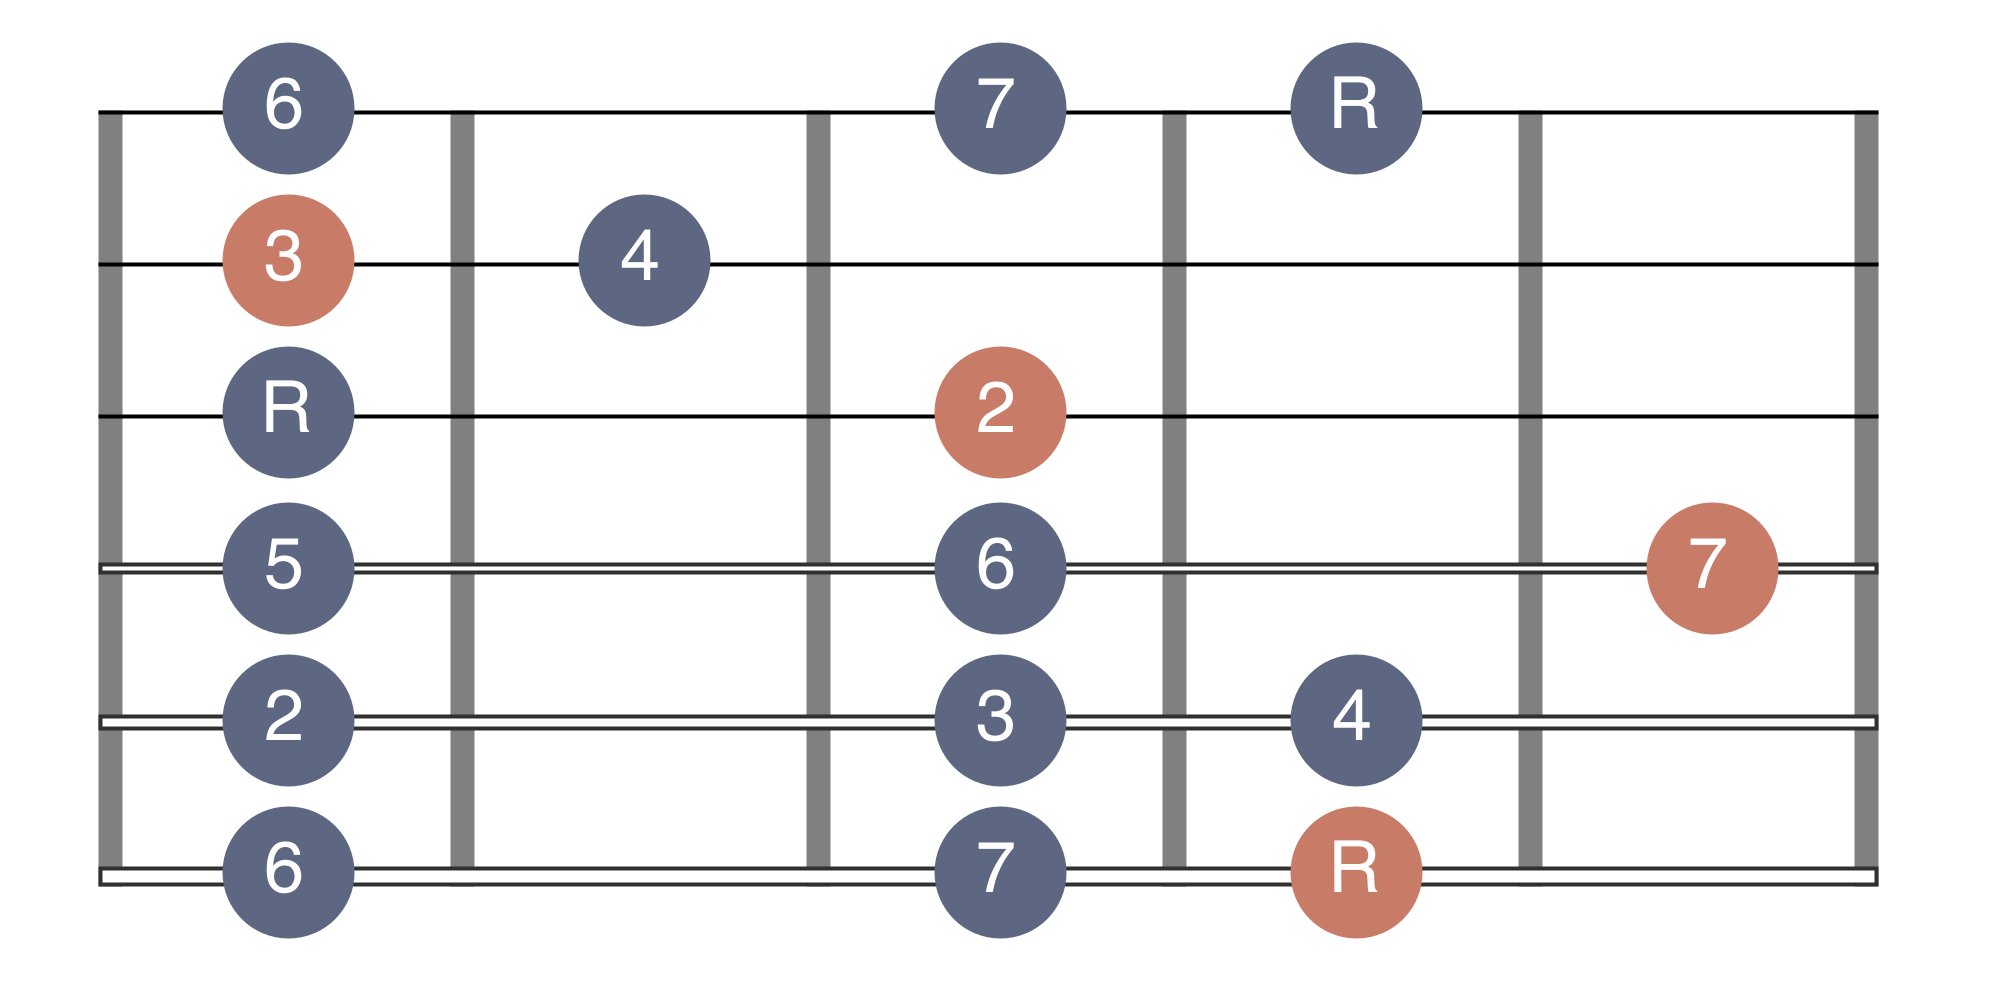
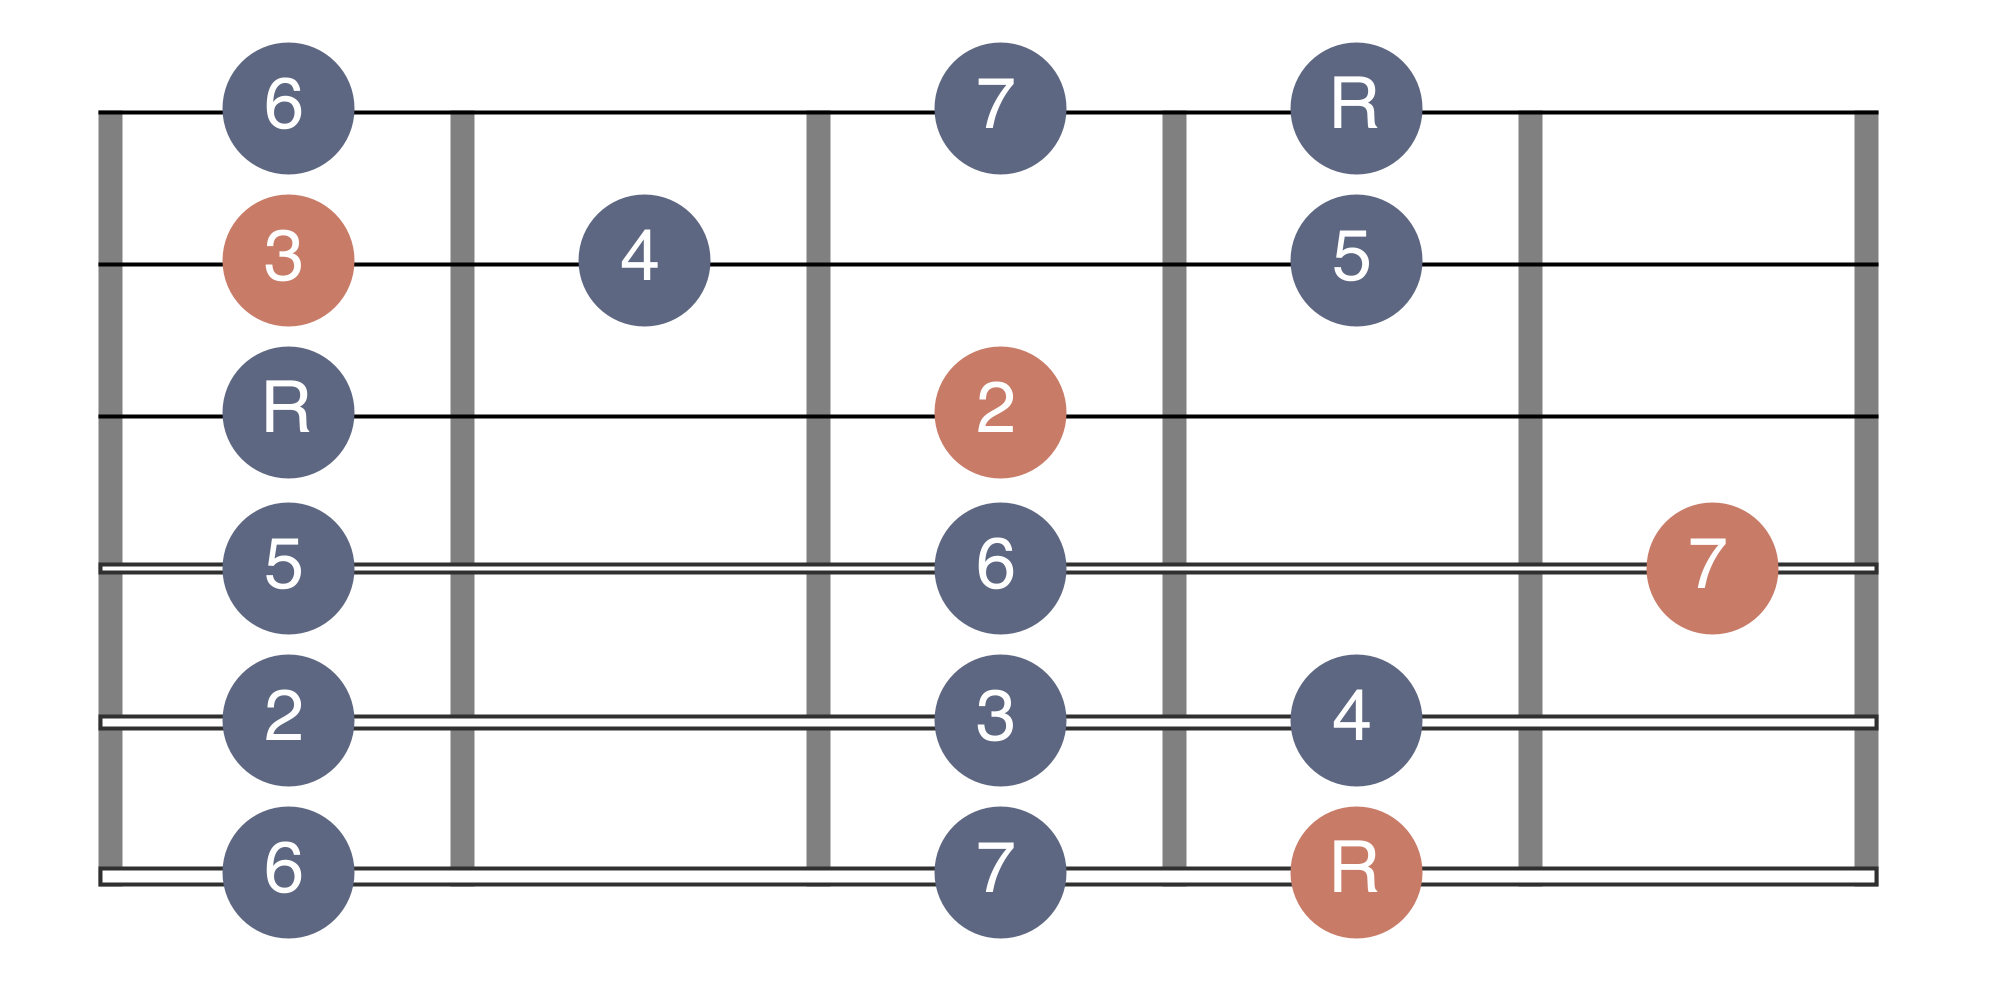
Quartz sync: Jan 29, 2026, 8:15 PM

Changed region(s): [[0.62, 0.186, 0.713, 0.341]]

diff --git a/content/Wiki/Guitarology/TechniqueMakesYouSoundGood.md b/content/Wiki/Guitarology/TechniqueMakesYouSoundGood.md
@@ -41,11 +41,10 @@ They’re also the easiest “conversation starter” between you and the guitar
 
 # What to Practice? 
 Of course, technical practice doesn’t mean mindless repetition. Every exercise should be intentional and attentive to be effective. Here are a few types of exercises I pay attention to when listening to students:    
-## Tremolo exercise
-
-Instructions:
+## Tremolo exercise  
+**Instructions:**  
 How fast can you play steady sixteenth-note tremolo? Now try adding 1-2-3-4 fingering — how fast can you keep it clean and even?  
-Pay attention to:
+**Pay attention to:**  
 Keep every note evenly spaced. Don’t accidentally accent any one note (especially the first note of each group of sixteenths). After adding the 1-2-3-4 fingering, make sure your left and right hands stay coordinated.   
 For every note, the three contact points — left-hand fretting, right-hand picking, and the rhythmic placement of the note — should line up precisely in time.
 